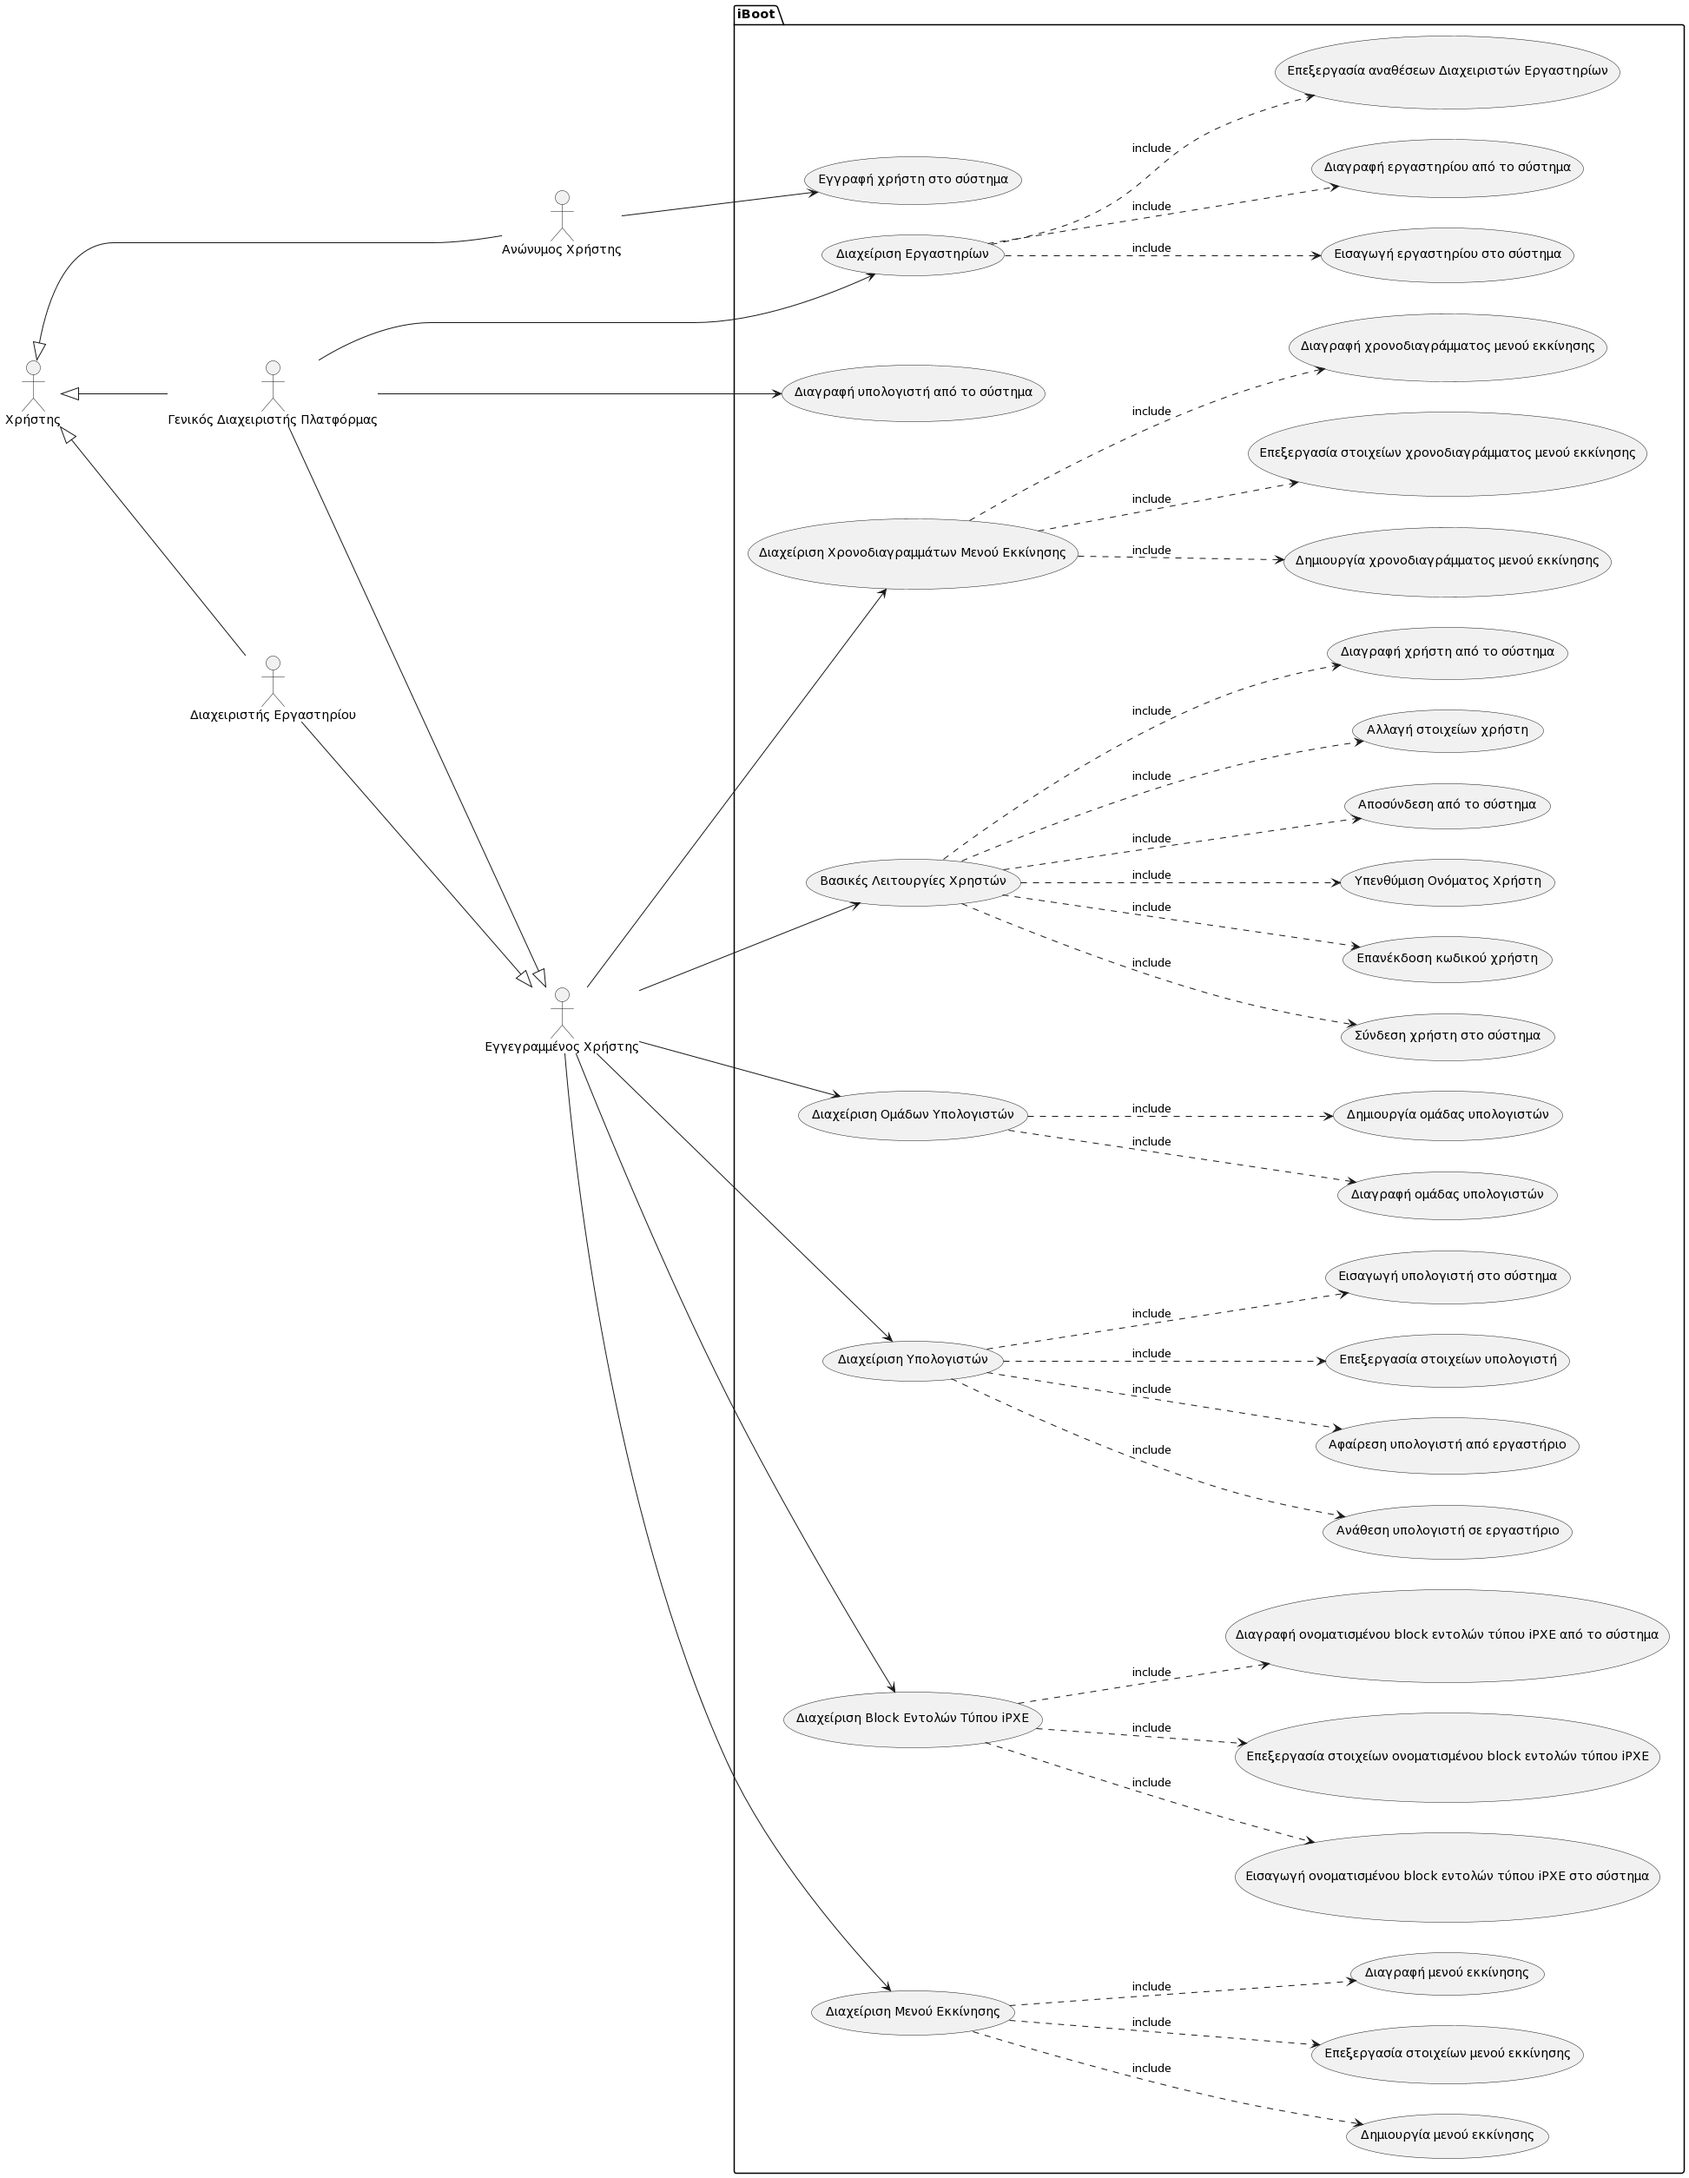
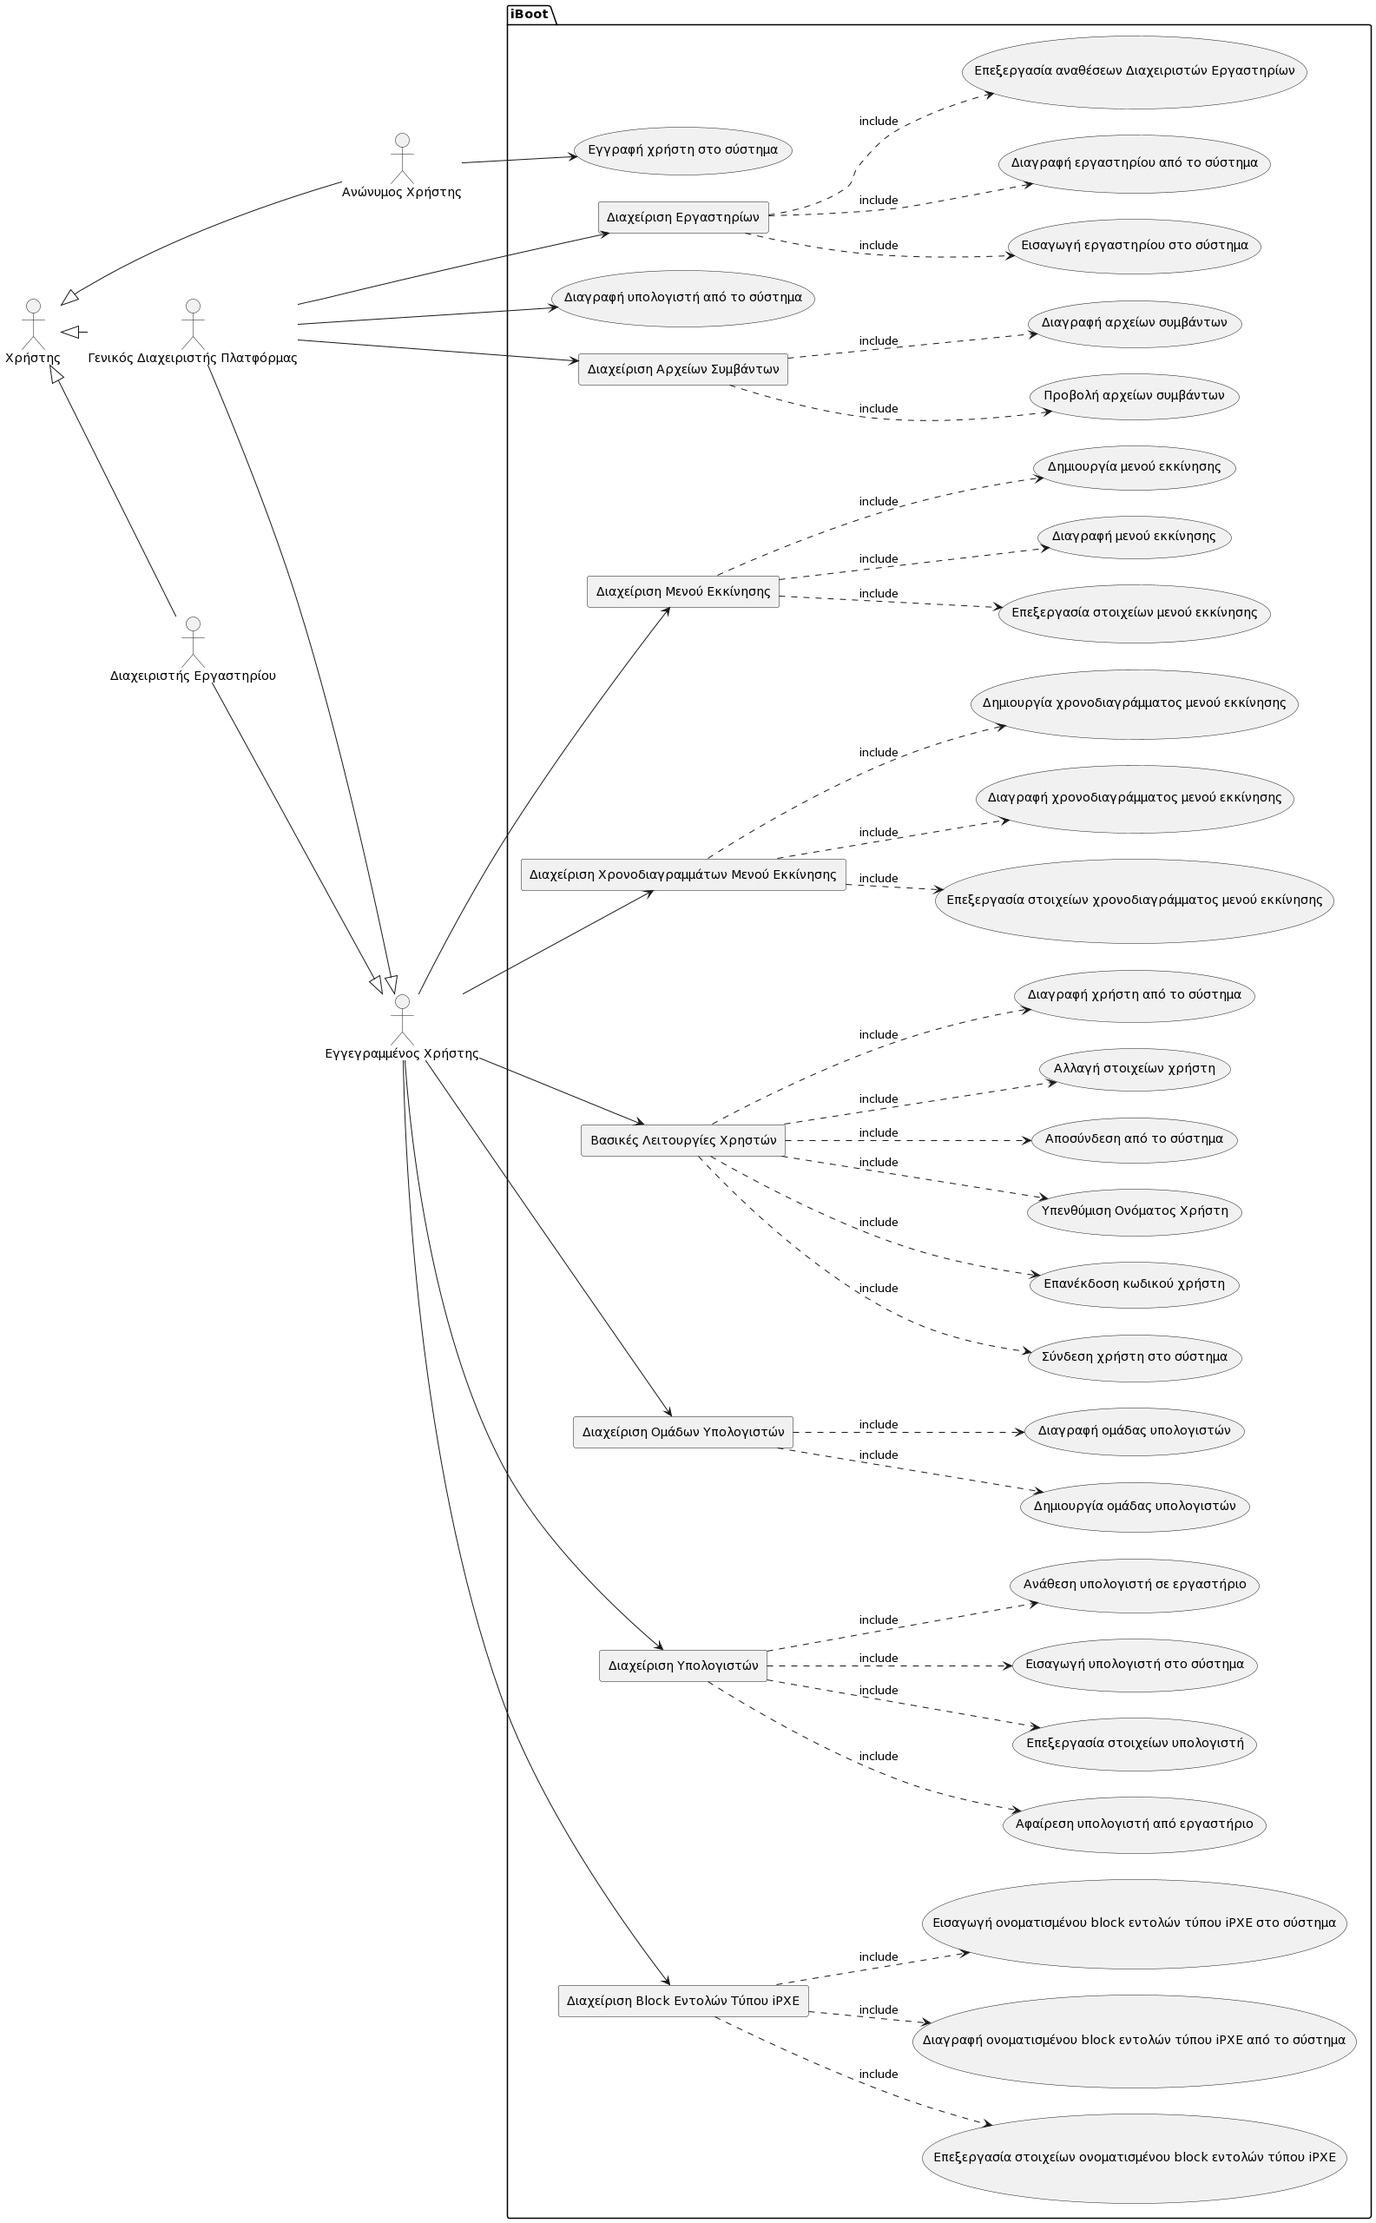
Add log use cases and plantuml code
- Add use cases about viewing and deleting logs
- Add an appendix with the necessary code to generate the use case diagram with plantuml

diff --git a/Chapters/3-System-Analysis/3-Use-Cases.tex b/Chapters/3-System-Analysis/3-Use-Cases.tex
@@ -652,3 +652,53 @@
 	\end{enumerate} \\ \hline
 	Εναλλακτικό σενάριο: & Αν ο χρήστης δεν επιβεβαιώσει τη διαγραφή του χρονοδιαγράμματος μενού εκκίνησης στο βήμα 3, τα στοιχεία του παραμένουν στην πλατφόρμα \\ \hline
 \end{longtable}
+
+%
+% Προβολή αρχείων συμβάντων
+%
+\begin{longtable}{|p{0.14\linewidth}|p{0.76\linewidth}|}
+	\caption{Περίπτωση Χρήσης: Προβολή αρχείων συμβάντων} \label{tab:use-case-view-logs} \\ \hline \endfirsthead
+	\caption[{}]{Περίπτωση Χρήσης: Προβολή αρχείων συμβάντων (συνέχεια)} \\ \endhead \endfoot
+	Περιγραφή: & Ο τρόπος με τον οποίο γίνεται η προβολή των αρχείων συμβάντων \\ \hline
+	Χειριστές: & Γενικός Διαχειριστής Πλατφόρμας \\ \hline
+	Προϋποθέσεις: & Καμία \\ \hline
+	Βασική ροή: &
+	\begin{enumerate}
+		\vspace{-1cm}
+		\addtolength{\itemindent}{-0.4cm}
+		\item Ο χρήστης περιηγείται στη σελίδα με τη λίστα των αρχείων συμβάντων
+		\item Επιλέγει το αρχείο συμβάντων που θέλει να προβάλει
+		\item Αν το επιθυμεί, εφαρμόζει φίλτρα (Επίπεδο συμβάντος, ημερομηνία/ώρα, λέξη/φράση στο κείμενο του συμβάντος) για να βρει ευκολότερα την πληροφορία που αναζητά
+		\vspace{-0.7cm}
+	\end{enumerate} \\ \hline
+	Εναλλακτικό σενάριο: & \\ \hline
+\end{longtable}
+
+%
+% Διαγραφή αρχείων συμβάντων
+%
+\begin{longtable}{|p{0.14\linewidth}|p{0.76\linewidth}|}
+	\caption{Περίπτωση Χρήσης: Διαγραφή αρχείων συμβάντων} \label{tab:use-case-delete-logs} \\ \hline \endfirsthead
+	\caption[{}]{Περίπτωση Χρήσης: Διαγραφή αρχείων συμβάντων (συνέχεια)} \\ \endhead \endfoot
+	Περιγραφή: & Ο τρόπος με τον οποίο διαγράφονται τα αρχεία συμβάντων \\ \hline
+	Χειριστές: & Γενικός Διαχειριστής Πλατφόρμας \\ \hline
+	Προϋποθέσεις: & Το αρχείο συμβάντων πρέπει να υπάρχει \\ \hline
+	Βασική ροή: &
+	\begin{enumerate}
+		\vspace{-1cm}
+		\addtolength{\itemindent}{-0.4cm}
+		\item Ο χρήστης περιηγείται στη σελίδα με τη λίστα των αρχείων συμβάντων
+		\item Επιλέγει το σύμβολο διαγραφής, δίπλα στα στοιχεία του χρονοδιαγράμματος μενού εκκίνησης που θέλει να διαγράψει
+		\item Επιβεβαιώνει τη διαγραφή στο αναδυόμενο παράθυρο που εμφανίζεται
+		\item Το αρχείο συμβάντων διαγράφεται από την πλατφόρμα
+		\vspace{-0.7cm}
+	\end{enumerate} \\ \hline
+	Εναλλακτικό σενάριο: &
+	\begin{itemize}
+		\vspace{-1cm}
+		\addtolength{\itemindent}{-0.4cm}
+		\item Στο βήμα 2, ο χρήστης μπορεί να επιλέξει το σύμβολο διαγραφής όλων των αρχείων συμβάντων
+		\item Αν ο χρήστης δεν επιβεβαιώσει τη διαγραφή του χρονοδιαγράμματος μενού εκκίνησης στο βήμα 3, τα στοιχεία του παραμένουν στην πλατφόρμα
+		\vspace{-0.7cm}
+	\end{itemize} \\ \hline
+\end{longtable}

diff --git a/Chapters/3-System-Analysis.tex b/Chapters/3-System-Analysis.tex
@@ -54,16 +54,22 @@
 	\item \nameref{tab:use-case-add-schedule}
 	\item \nameref{tab:use-case-edit-schedule}
 	\item \nameref{tab:use-case-delete-schedule}
+	\item \nameref{tab:use-case-view-logs}
+	\item \nameref{tab:use-case-delete-logs}
 \end{itemize}
 
 Το διάγραμμα περιπτώσεων χρήσης του συστήματος (UML Use Case Diagram), απεικονίζεται στο σχήμα \ref{fig:iboot-use-cases}.
 
+\textit{\textbf{Σημείωση:} Η παραγωγή του διαγράμματος περιπτώσεων χρήσης έγινε με χρήση του λογισμικού \href{http://www.plantuml.com/plantuml/uml}{PlantUML}. Ο κώδικας παραγωγής του διαγράμματος παρουσιάζεται στο \ref{lst:plantuml-code}.}
+
 \begin{figure}[ht]
 	\centering
-	\includegraphics[scale=0.25]{iBoot_use_cases.png}
+	\includegraphics[scale=0.26]{iBoot_use_cases.png}
 	\caption{Διάγραμμα Περιπτώσεων Χρήσης iBoot}
 	\label{fig:iboot-use-cases}
 \end{figure}
+
+\FloatBarrier
 
 Στους πίνακες που ακολουθούν παρουσιάζονται αναλυτικά οι περιπτώσεις χρήσης της πλατφόρμας.
 

diff --git a/Appendices/PlantUML.tex b/Appendices/PlantUML.tex
@@ -1,0 +1,6 @@
+\chapter{PlantUML}
+
+\section{Κώδικας Παραγωγής Διαγράμματος Περιπτώσεων Χρήσης}
+Παρακάτω παρουσιάζεται ο κώδικας \href{http://www.plantuml.com/plantuml/uml}{PlantUML} που χρησιμοποιήθηκε για να παραχθεί το διάγραμμα περιπτώσεων χρήσης \ref{fig:iboot-use-cases}.
+
+\lstinputlisting[language=Python, backgroundcolor=\color{yellow!10}, frame=single, caption={Κώδικας PlantUML}, breaklines=true, basicstyle=\footnotesize, label={lst:plantuml-code}]{Appendices/plantuml-code.txt}

diff --git a/main.tex b/main.tex
@@ -118,6 +118,7 @@
 
 \begin{appendices}
 	\include{Appendices/Installation-Instructions}
+	\include{Appendices/PlantUML}
 \end{appendices}
 
 {\footnotesize
